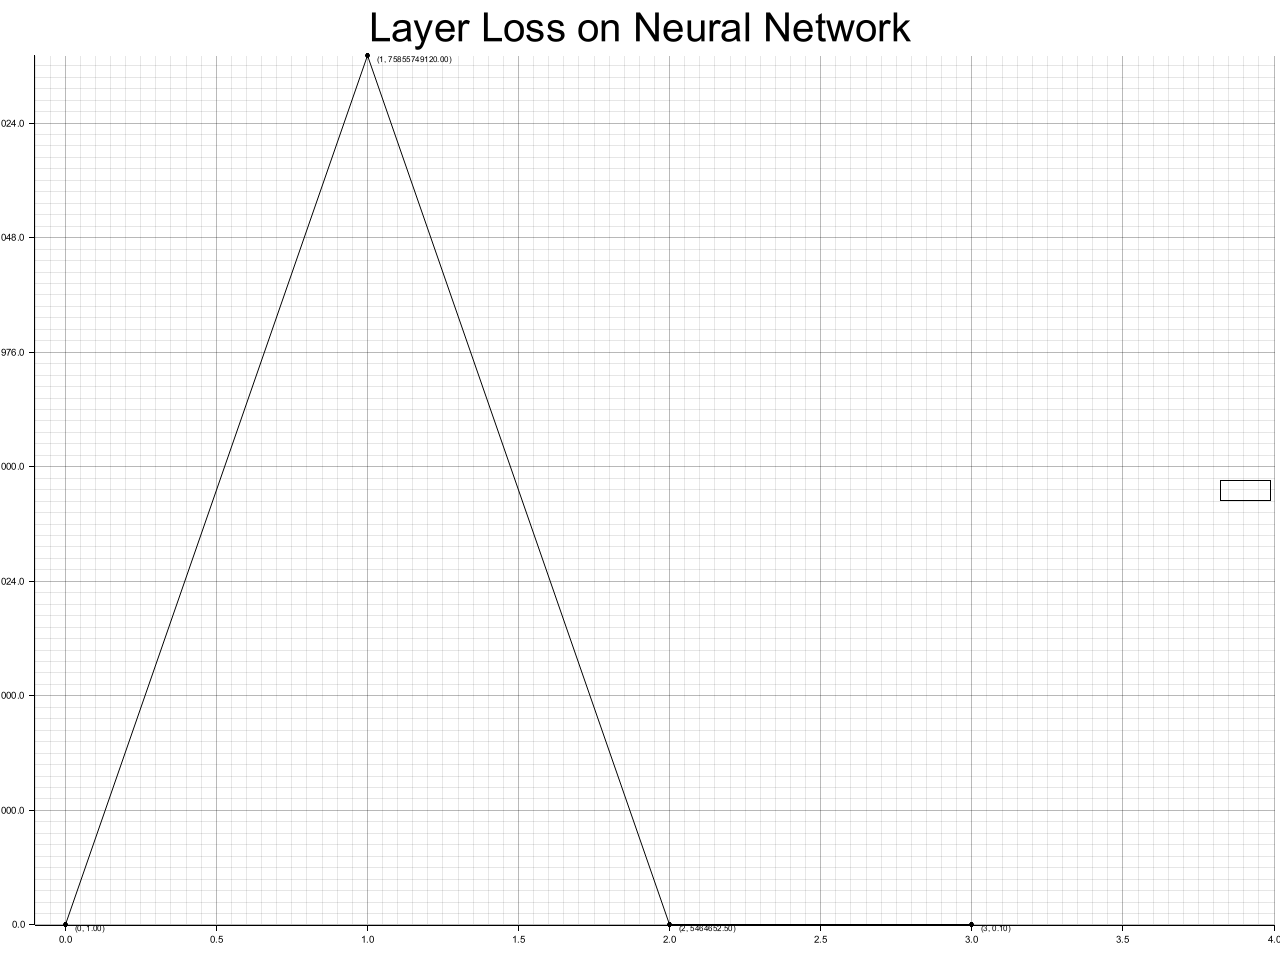
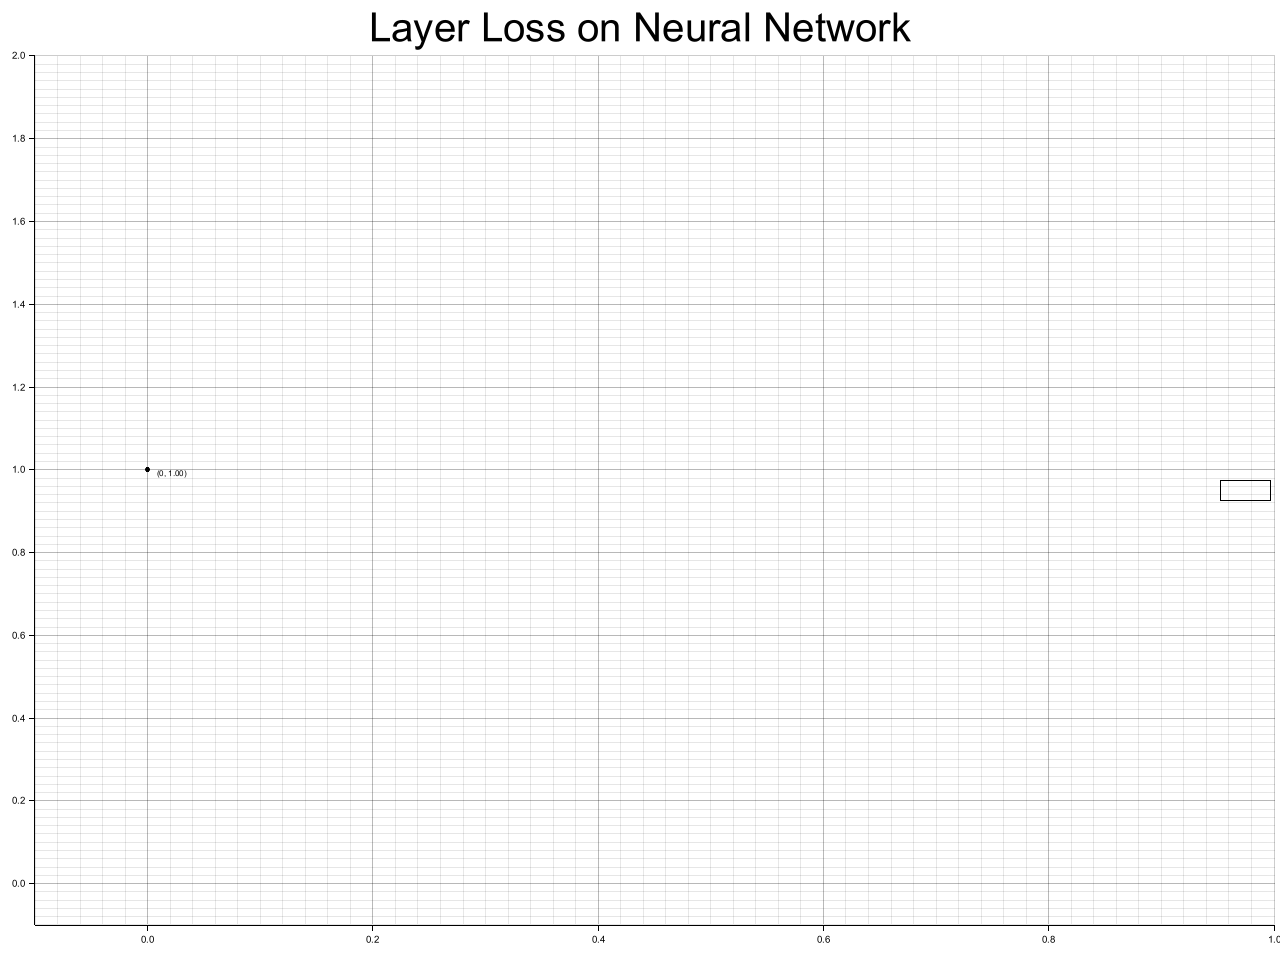
Implemented adam optimizer

Changed region(s): [[0.0, 0.0312, 1.0, 0.9688]]

diff --git a/src/network/layer/dense.rs b/src/network/layer/dense.rs
@@ -19,7 +19,12 @@ pub struct Dense{
     beta1: f32,
     beta2: f32,
     epsilon: f32,
-    time: usize
+    time: usize,
+
+    m_weights: Matrix,
+    v_weights: Matrix,
+    m_biases: Matrix,
+    v_biases: Matrix
 }
 
 impl Dense{
@@ -28,6 +33,13 @@ impl Dense{
             loss: 1.0,
             weights: Matrix::new_random(layer_cols_before, layers),
             biases: Matrix::new_random(layer_cols_before, 1),
+
+            m_weights: Matrix::new_empty(layer_cols_before, layers),
+            v_weights: Matrix::new_empty(layer_cols_before, layers),
+
+            m_biases: Matrix::new_empty(layer_cols_before, 1),
+            v_biases: Matrix::new_empty(layer_cols_before, 1),
+
             data: Matrix::new_random(0, 0),
             activation_fn: activation,
             learning_rate,
@@ -38,6 +50,7 @@ impl Dense{
         };
         (res.beta1, res.beta2) = res.get_betas();
         res.epsilon = res.get_epsilon();
+
         res
     }
     fn get_betas(&self) -> (f32, f32){
@@ -67,7 +80,7 @@ impl Layer for Dense{
     fn backward(&mut self, gradients: Box<dyn Input>, errors: Box<dyn Input>, data: Box<dyn Input>) -> Box<dyn Input> {
         let mut gradients_mat = Matrix::from(gradients.to_param_2d());
         let mut errors_mat = Matrix::from(errors.to_param_2d());
-        let mut data_mat = Matrix::from(data.to_param_2d());
+        let data_mat = Matrix::from(data.to_param_2d());
 
         gradients_mat = gradients_mat.dot_multiply(&errors_mat) * self.learning_rate;
         errors_mat = self.weights.clone().transpose() * &errors_mat;
@@ -79,9 +92,27 @@ impl Layer for Dense{
 
         self.loss = self.loss / errors_mat.to_param().len() as f32;
 
-        //println!("{}x{} {}x{}", self.weights.rows, self.weights.columns, data.to_param_2d()[0].len(), data.to_param_2d().len());
-        self.biases = self.biases.clone() + &gradients_mat.clone();
-        self.weights = self.weights.clone() + &(gradients_mat.clone() * (&data_mat.transpose()));
+        self.time += 1;
+
+        let weight_gradient = gradients_mat.clone() * &(data_mat.clone().transpose());
+
+        self.m_weights = self.m_weights.clone() * self.beta1 + &(weight_gradient.clone() * (1.0 - self.beta1));
+        self.v_weights = self.v_weights.clone() * self.beta2 + &((weight_gradient^2) * (1.0 - self.beta2));
+
+        self.m_biases = self.m_biases.clone() * self.beta1 + &(gradients_mat.clone() * (1.0 - self.beta1));
+        self.v_biases = self.v_biases.clone() * self.beta2 + &((gradients_mat.clone()^2) * (1.0 - self.beta2));
+
+        let m_weights_hat = self.m_weights.clone() / (1.0 - self.beta1.powi(self.time as i32));
+        let v_weights_hat = self.v_weights.clone() / (1.0 - self.beta2.powi(self.time as i32));
+
+        let m_bias_hat = self.m_biases.clone() / (1.0 - self.beta1.powi(self.time as i32));
+        let v_bias_hat = self.v_biases.clone() / (1.0 - self.beta2.powi(self.time as i32));
+
+        let weights_update = m_weights_hat.clone() / &(v_weights_hat.sqrt() + self.epsilon);
+        let bias_update = m_bias_hat.clone() / &(v_bias_hat.sqrt() + self.epsilon);
+
+        self.biases = self.biases.clone() + &bias_update;
+        self.weights = self.weights.clone() + &weights_update;
 
         Box::new(errors_mat)
     }

diff --git a/src/network/network.rs b/src/network/network.rs
@@ -146,7 +146,7 @@ impl Network{
     ///compared to what is actually derived during back propegation
     ///* `epochs` - How many epochs you want your model training for
     ///
-    pub fn fit(&mut self, train_in: Vec<Vec<f32>>, train_out: Vec<Vec<f32>>, epochs: usize){
+    pub fn fit(&mut self, train_in: &Vec<Vec<f32>>, train_out: &Vec<Vec<f32>>, epochs: usize){
         let mut input_batch: Box<dyn Input>;
         let mut output_batch: Box<dyn Input>;
 
@@ -179,10 +179,7 @@ impl Network{
             
         }
         self.loss = self.loss_train[self.loss_train.len()-1];
-        println!("Trained to a loss of {:.2}%", self.loss * 100.0);
-        for i in 0..self.layers.len()-1{
-            println!("Error on layer {}: +/- {:.2}", i+1, self.layers[i].get_loss());
-        }
+        
     }
 
     fn get_batch(&self, inputs: &Vec<Vec<f32>>, idx: usize) -> Box<dyn Input> {
@@ -213,44 +210,18 @@ impl Network{
         let net: Network = from_str(&buffer).expect("Json was not formatted well >:(");
         net
     }
+
+    pub fn fit_to_loss(&mut self, train_in: Vec<Vec<f32>>, train_out: Vec<Vec<f32>>, desired_loss: f32, steps_per: usize) -> usize{
+        let mut epochs_total = 0;
+        while self.loss > desired_loss{
+            self.fit(&train_in, &train_out, steps_per);
+            epochs_total += steps_per;
+            
+        }
+        println!("Trained to a loss of {:.2}%", self.loss * 100.0);
+        for i in 0..self.layers.len()-1{
+            println!("Error on layer {}: +/- {:.2}", i+1, self.layers[i].get_loss());
+        }
+        epochs_total
+    }
 }
-
-/*#[typetag::serde]
-impl Layer for Network{
-
-    fn forward(&mut self,inputs: &Box<dyn Input>) -> Box<dyn Input> {
-        Box::new(self.feed_forward(inputs))
-    }
-
-    fn backward(&mut self,inputs: &Matrix,gradients: &Matrix,errors: &Matrix,layer_prev: &Matrix,layer_prev_bias: &Matrix) -> (Matrix,Matrix,Matrix,Matrix) {
-        self.implicit_back_propegation(inputs.clone(), gradients.clone(), errors.clone())
-    }
-
-    fn shape(&self) -> (usize,usize,usize) {
-        self.layers[0].shape()
-    }
-    fn set_weights(&mut self,new_weights:Matrix) {
-        self.layers[0].set_weights(new_weights)
-    }
-    fn set_bias(&mut self,new_bias:Matrix) {
-        self.layers[0].set_bias(new_bias)
-    }
-    fn get_cols(&self) -> usize {
-        self.layers[self.layers.len() - 1].get_cols()
-    }
-    fn get_rows(&self) -> usize {
-        self.layers[self.layers.len() - 1].get_rows()
-    }
-    fn get_bias(&self) -> Matrix {
-        self.layers[0].get_bias()
-    }
-    fn get_loss(&self) -> f32 {
-        self.loss
-    }
-    fn get_weights(&self) -> Matrix {
-        self.layers[0].get_weights()
-    }
-    fn get_activation(&self) -> Option<super::activations::Activations> {
-        self.layers[0].get_activation()
-    }
-}*/

diff --git a/src/network/matrix.rs b/src/network/matrix.rs
@@ -80,6 +80,19 @@ impl ops::Mul<f32> for Matrix {
     }
 }
 
+impl ops::BitXor<i32> for Matrix{
+    type Output = Matrix;
+    fn bitxor(self, rhs: i32) -> Self::Output {
+        let mut res: Matrix = Matrix::new_empty(self.rows, self.columns);
+        for i in 0..self.rows{
+            for j in 0..self.columns{
+                res.data[i][j] = self.data[i][j].powi(rhs);
+            }
+        }
+        res
+    }
+}
+
 impl ops::Div<f32> for Matrix {
     type Output = Matrix;
     fn div(self, rhs: f32) -> Self::Output {
@@ -93,9 +106,22 @@ impl ops::Div<f32> for Matrix {
     }
 }
 
-impl ops::Div<Matrix> for &Matrix{
+impl ops::Add<f32> for Matrix {
     type Output = Matrix;
-    fn div(self, rhs: Matrix) -> Self::Output {
+    fn add(self, rhs: f32) -> Self::Output {
+        let mut res: Matrix = Matrix::new_empty(self.rows, self.columns);
+        for i in 0..self.rows{
+            for j in 0..self.columns{
+                res.data[i][j] = self.data[i][j] + rhs;
+            }
+        }
+        res
+    }
+}
+
+impl ops::Div<&Matrix> for Matrix{
+    type Output = Matrix;
+    fn div(self, rhs: &Matrix) -> Self::Output {
         let mut res: Matrix = Matrix::new_empty(self.rows, self.columns);
         for i in 0..self.rows{
             for j in 0..self.columns{

diff --git a/src/main.rs b/src/main.rs
@@ -11,21 +11,18 @@ fn main() -> Result<(), Box<dyn Error>> {
 
     new_net.add_layer(LayerTypes::DENSE(2, Activations::SIGMOID, 0.1));
     new_net.add_layer(LayerTypes::DENSE(3, Activations::SIGMOID, 0.1));
-    new_net.add_layer(LayerTypes::DENSE(4, Activations::TANH, 0.1));
-    new_net.add_layer(LayerTypes::DENSE(2, Activations::SIGMOID, 0.1));
-    new_net.add_layer(LayerTypes::DENSE(3, Activations::SIGMOID, 0.1));
     new_net.add_layer(LayerTypes::DENSE(1, Activations::SIGMOID, 0.1));
 
     new_net.compile();
 
-    new_net.fit(inputs, outputs, 20);
+    new_net.fit(&inputs, &outputs, 20);
 
     //let mut new_net = Network::load("best_network.json");
     println!("1 and 0: {:?}", new_net.predict(vec![1.0,0.0])[0]);
     println!("0 and 1: {:?}", new_net.predict(vec![0.0,1.0])[0]);
     println!("1 and 1: {:?}", new_net.predict(vec![1.0,1.0])[0]);
     println!("0 and 0: {:?}", new_net.predict(vec![0.0,0.0])[0]);
-   
+
     new_net.save("best_network.json");
     new_net.plot_layer_loss("loss_graph_per_layer.png")?;
     new_net.plot_loss_history("loss_history.png")?;
